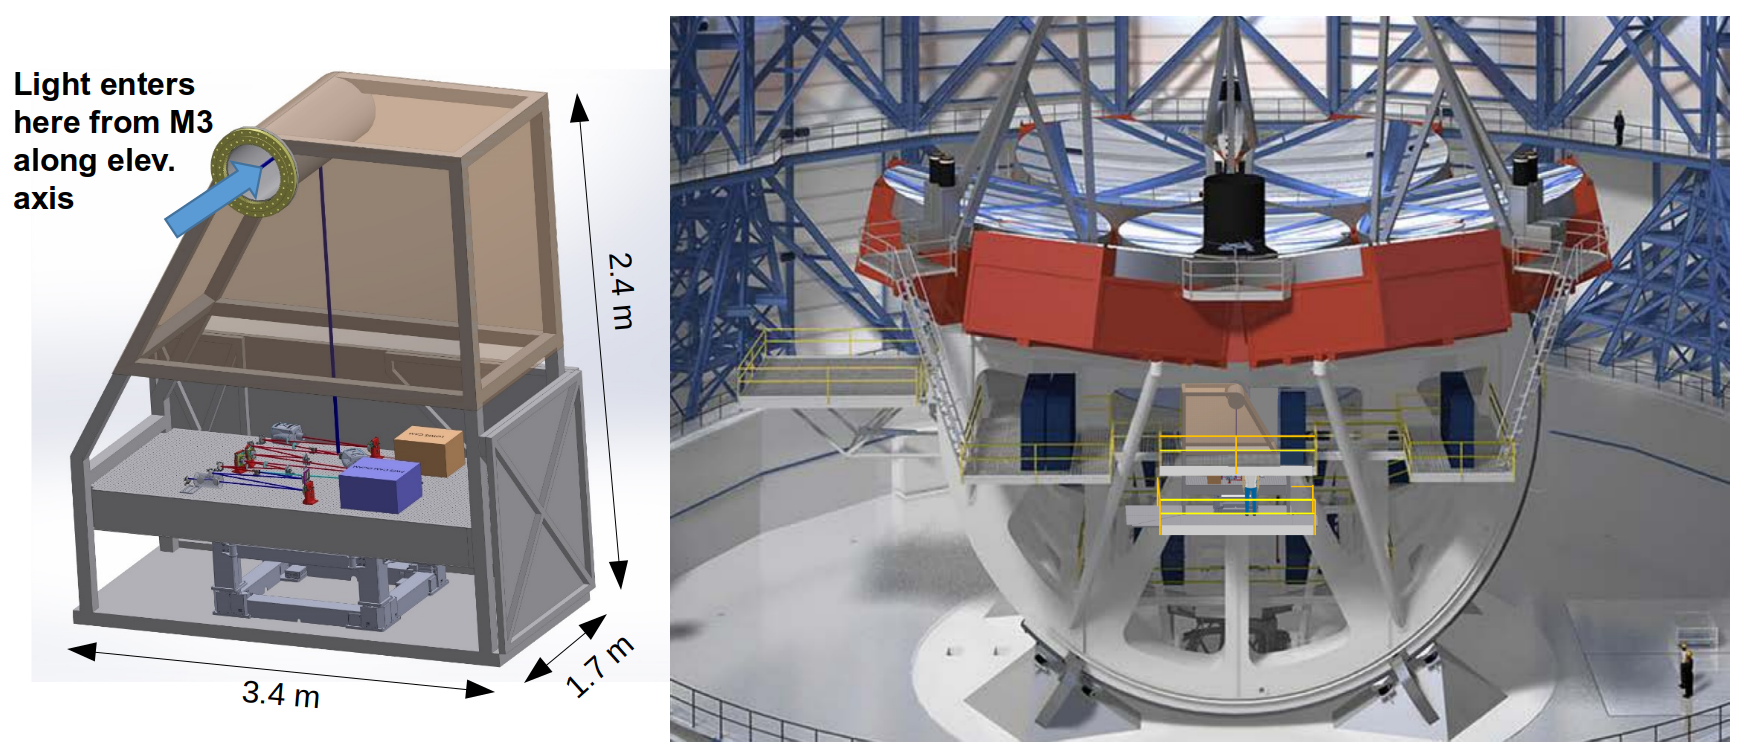
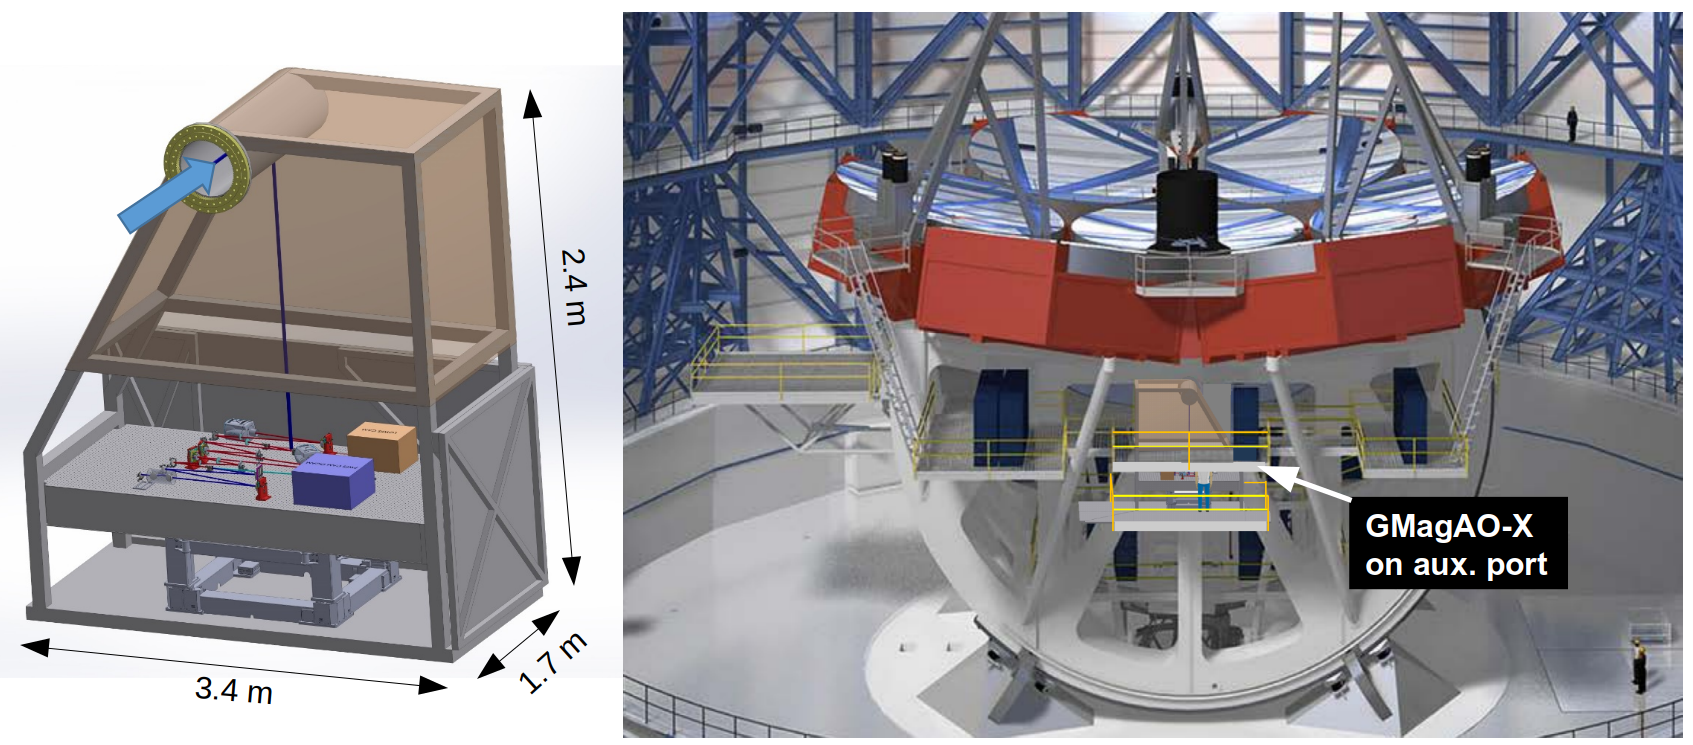
up

diff --git a/gmagaox_apc.tex b/gmagaox_apc.tex
@@ -263,14 +263,14 @@ image down to $\sim$ 0.5 microns.
 
 \section{Technical Overview}
 
-The Giant Magellan Telescope will be a 25.4-meter visible and infrared (0.32 - 25 $\mu$m) telescope located at Las Campanas Observatory in the Chilean Andes and is designed to provide unprecedented clarity and sensitivity for the observation of astrophysical phenomena. The optical design of GMT consists of seven 8.4-meter borosilicate honeycomb mirror segments that reflect light to seven secondary mirror segments in a doubly-segmented Gregorian configuration. The compact design and small pixelscale at the direct Gregorian focal plane requires fairly small instruments to take necessary astronomical data. Commissioning will be performed using a fast-steering secondary mirror assembly which, during science operations, can be replaced with a state-of-the-art adaptive secondary assembly comprised of fully adaptive segments. The adaptive secondary mirror provides a general-purpose AO capability to all instruments on the telescope, including ground layer, natural guide star, and laser tomography adaptive optics modes. High contrast AO instruments must provide additional wavefront control elements to achieve their science objectives.
+The GMT will be a 25.4-meter visible and infrared (0.32 - 25 $\mu$m) telescope located at Las Campanas Observatory in the Chilean Andes and is designed to provide unprecedented clarity and sensitivity for the observation of astrophysical phenomena. The optical design of GMT consists of seven 8.4-meter borosilicate honeycomb mirror segments that reflect light to seven secondary mirror segments in a doubly-segmented Gregorian configuration. The compact design and small pixelscale at the direct Gregorian focal plane requires fairly small instruments. Commissioning will be performed using a fast-steering secondary mirror assembly which, during science operations, can be replaced with a state-of-the-art adaptive secondary assembly comprised of fully adaptive segments. The adaptive secondary mirror provides a general-purpose AO capability to all instruments on the telescope, including ground layer, natural guide star, and laser tomography adaptive optics modes. High contrast AO instruments must provide additional wavefront control elements to achieve their science objectives.
 
 GMT is currently being built by an international consortium of universities and research institutions with a deep history of pioneering telescope construction and design, quality instrumentation production, and revolutionary adaptive optics techniques and technology. The Founding Partners consist of Arizona State University (US), Astronomy Australia Limited (Australia), Australian National University (Australia), Carnegie Institution for Science (US), FAPESP-The S\~ao Paulo Research Foundation (Brazil), Harvard University (US), Korean Astronomy and Space Science Institute (South Korea), Smithsonian Institution (US), Texas A\&M University (US), University of Texas at Austin (US), University of Arizona (US), and the University of Chicago (US).
 
 \begin{figure}[h!]
 \centering
-\includegraphics[width=6in]{figures/GMagAOX__fig4_no_labels_V2.png}
-\vspace{-0.2in}
+\includegraphics[width=6in]{figures/ap.png}
+\vspace{-0.1in}
 \caption{ GMagAO-X concept shown within the Auxiliary Port volume and mounted on the GMT elevation axis. The thick blue arrow shows the direction the light enters GMagAO-X after reflection off M3. This is a gravity invariant port which eliminates flexure and enables a vibration isolated (floating) optical 5x10' optical table. \label{fig:ap}}
 \vspace{-0.1in}
 \end{figure}
@@ -282,6 +282,7 @@ This notional concept has established the feasibility of mounting GMagAO-X on th
 \begin{figure} [h!]
 \centering
 \includegraphics[width=5in]{figures/Possible_Optical_design_GMagAOX_V2.png}
+\vspace{-0.2in}
 \caption{ Concept for an optical design of GMagAO-X. Both the woofer and tweeter DMs take advantage of the GMT pupil with new concept called a "Parallel DM". The tweeter is 7-segment 21,000 MEMS deformable mirror using a six-sided reflective prism.  In the cartoon at left all optical path The center segment is passed through a central hole in the pyramid. Mechanical design renderings with different views show how such a parallel DM could be implemented in GMagAO-X's optical design on a 5x10' optical table.  \label{fig:pardm}}
 \vspace{-0.1in}
 \end{figure}
